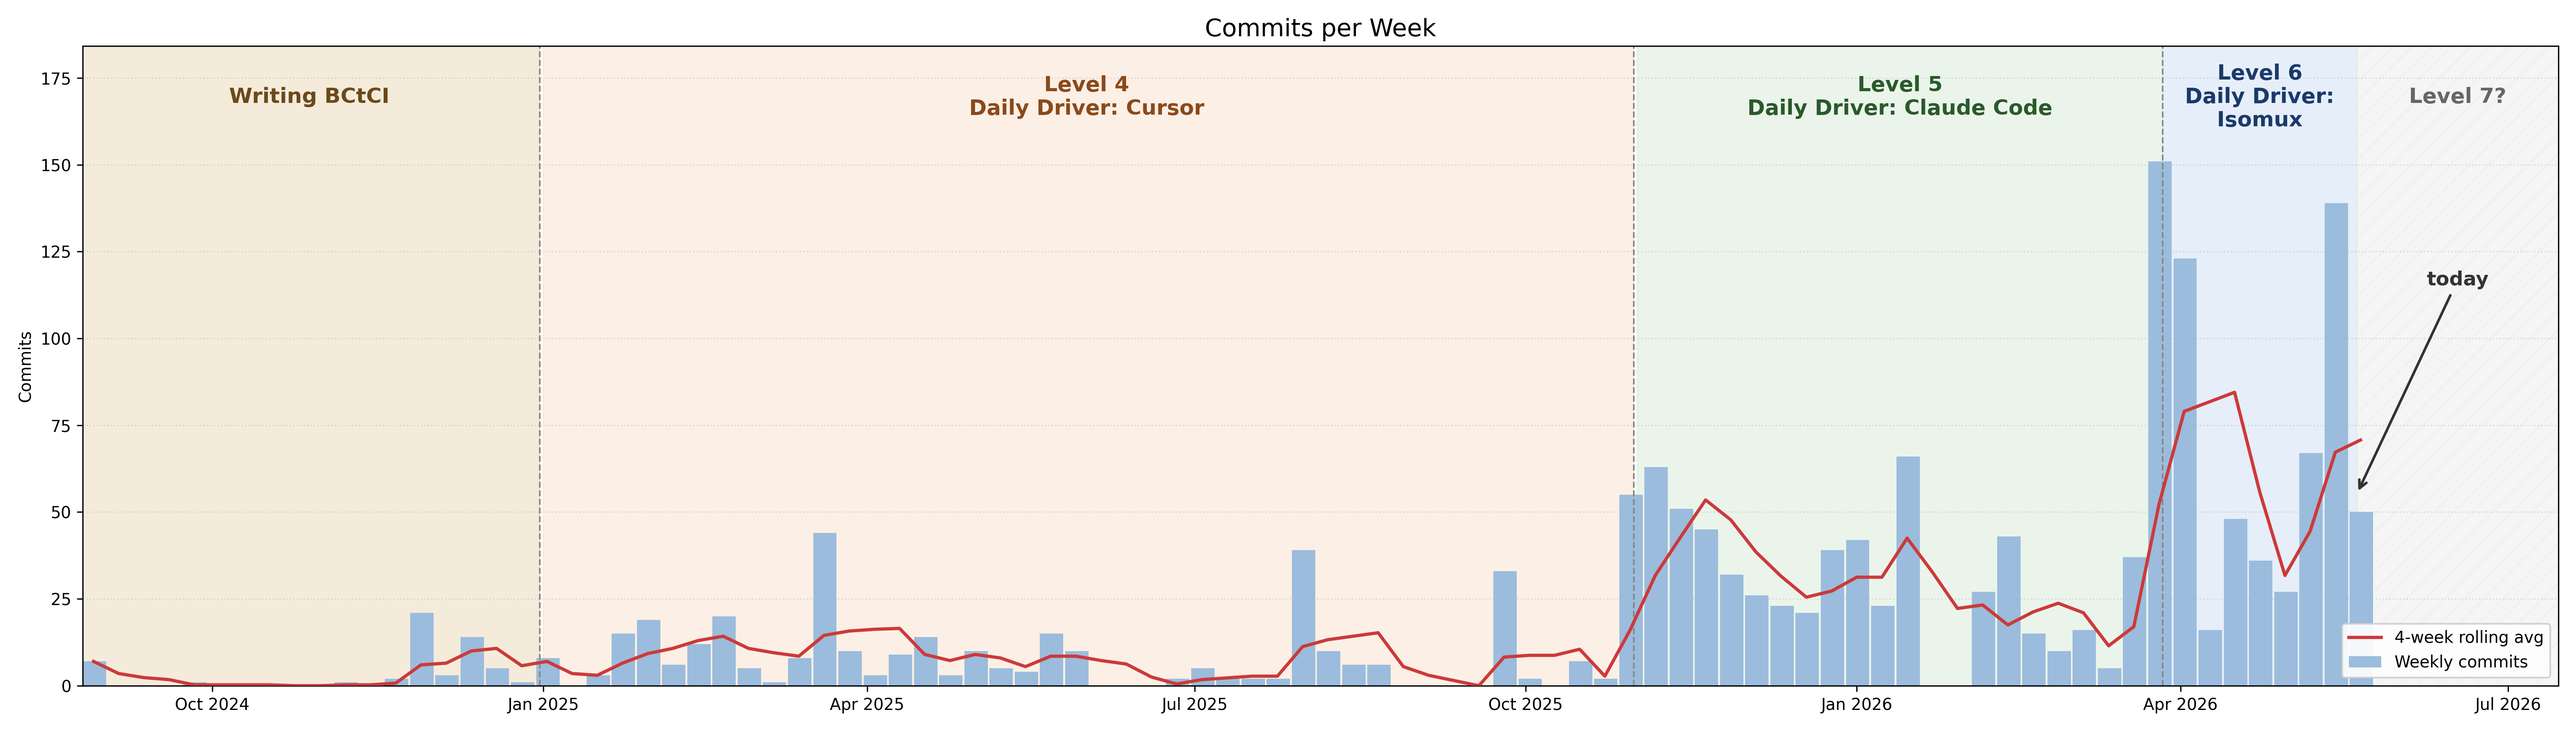
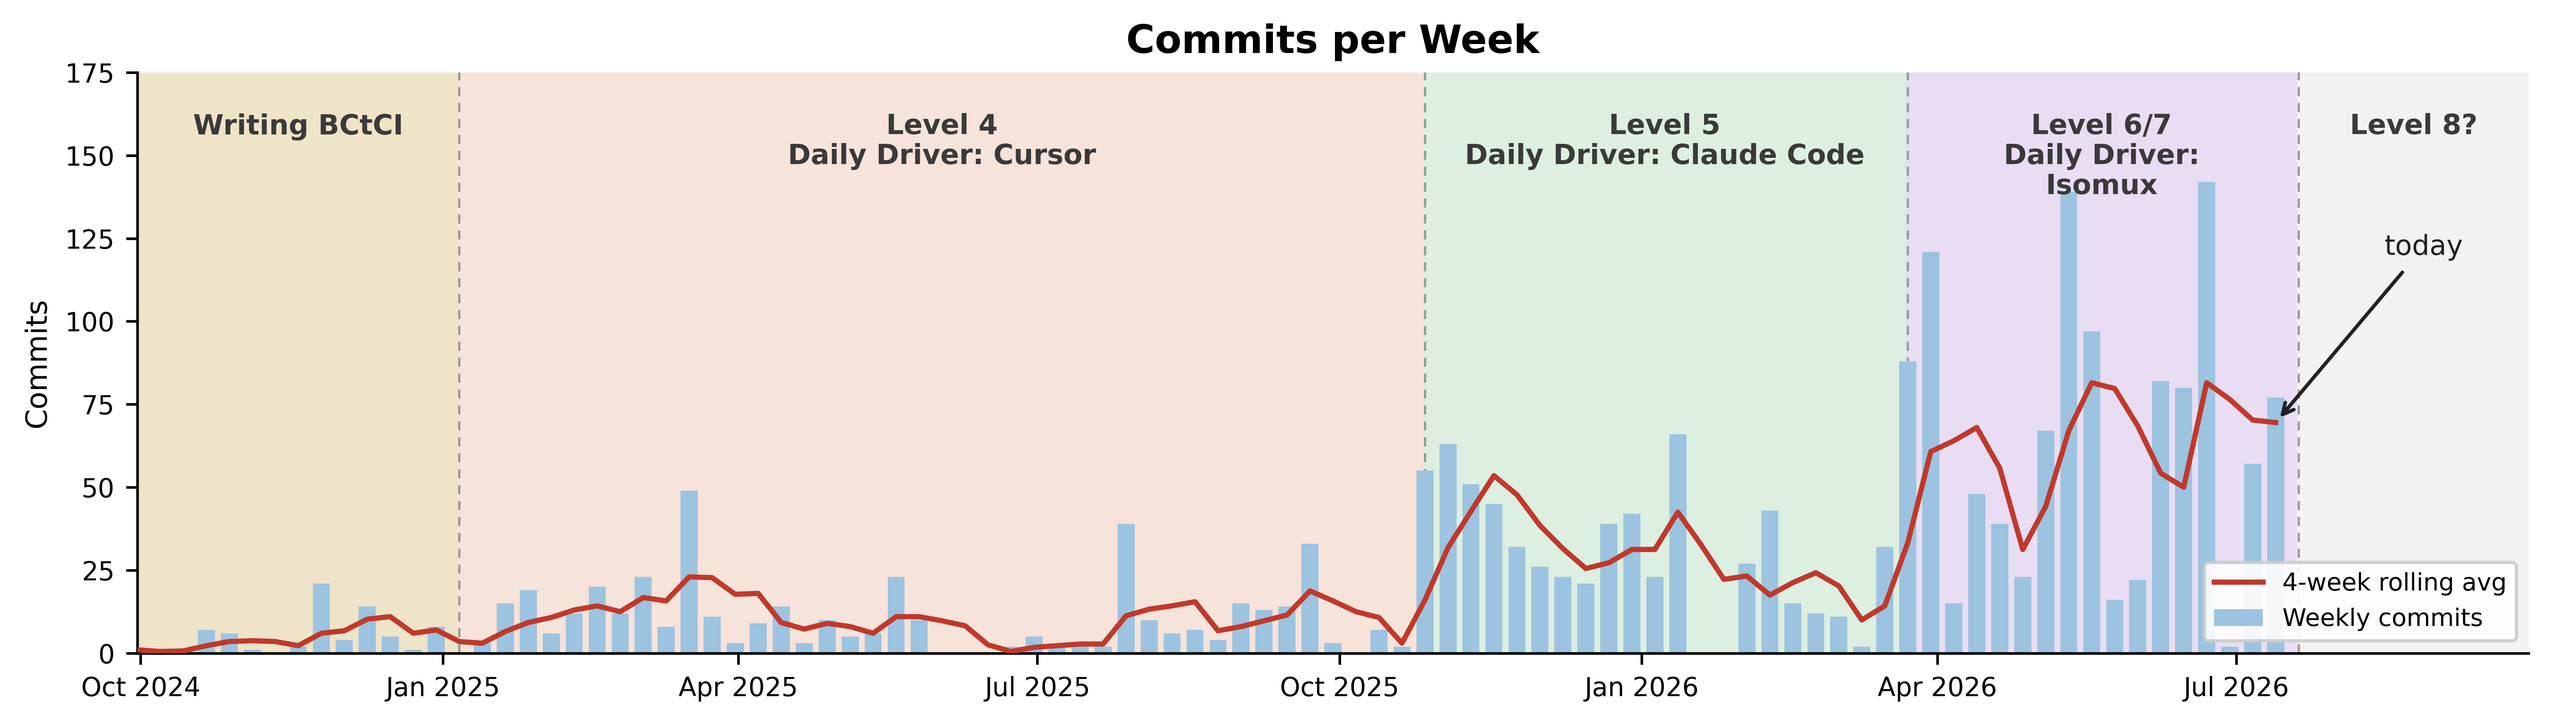
Isomux blog: refresh commits-per-week chart + add generator
Regenerate the top-of-post chart with data through July 2026 and add a
reproducible generator script.

- Counts weekly commits across the author's own non-fork GitHub repos
  (bot authors excluded); shared/co-authored repos come from an optional
  local config outside the repo, so the script hardcodes no email,
  hostname, or repo name.
- Extend the timeline through the Isomux era; relabel eras (Level 6/7,
  Level 8?) and shift era boundaries; recolor the Isomux band.

Changed region(s): [[0.0, 0.0312, 0.9982, 0.9667]]

diff --git a/tools/commits-per-week-chart.py b/tools/commits-per-week-chart.py
@@ -1,0 +1,194 @@
+#!/usr/bin/env python3
+"""
+Regenerate the "Commits per Week" chart at the top of the Isomux blog post
+(public/blog/isomux/commits-per-week.png).
+
+What counts as real dev work: commits that live on GitHub. So this counts
+commits per week across the authenticated user's own (non-fork) GitHub repos,
+excluding bot authors. Each repo is cloned/updated into a local cache.
+
+Shared repos (on GitHub but under another org, with co-authors) can't be
+discovered automatically and shouldn't be hardcoded here, so they're read from
+an OPTIONAL local config file that lives outside this repository:
+
+    ~/.config/commit-chart/extras.json   (override with $COMMIT_CHART_EXTRAS)
+
+    [ { "path": "~/some/local/clone", "authors": ["you@example.com"] }, ... ]
+
+For each extra repo only the listed authors are counted (to drop co-authors).
+If the file is absent the script still runs, just without those repos.
+
+The chart buckets commits into weekly bars, overlays a 4-week rolling average,
+and shades the background by "daily driver" era (Steve Yegge's agent levels).
+
+Usage:  python3 tools/commits-per-week-chart.py
+Deps:   matplotlib, numpy, and the `gh` CLI (authenticated).
+
+By design this file contains no email address, hostname, or repo name.
+"""
+
+import datetime as dt
+import json
+import os
+import subprocess
+from collections import Counter
+
+import numpy as np
+import matplotlib
+matplotlib.use("Agg")
+import matplotlib.pyplot as plt
+import matplotlib.dates as mdates
+
+# --- config -----------------------------------------------------------------
+
+TODAY = dt.date.today()
+AXIS_START = dt.date(2024, 9, 30)          # a Monday, ~Oct 2024
+AXIS_END = dt.date(2026, 9, 28)            # leave room for the "next level?" band
+
+# Skip GitHub repos with no pushes since this date (dead/ancient projects).
+ACTIVE_SINCE = "2024-06-01"
+
+CACHE = os.path.expanduser("~/.cache/commit-chart-repos")
+EXTRAS_FILE = os.environ.get(
+    "COMMIT_CHART_EXTRAS", os.path.expanduser("~/.config/commit-chart/extras.json"))
+
+# (label, start, end, background color). Boundaries are Mondays (bar starts).
+ERAS = [
+    ("Writing BCtCI",                       dt.date(2024, 9, 30),  dt.date(2025, 1, 6),   "#efe3c8"),
+    ("Level 4\nDaily Driver: Cursor",       dt.date(2025, 1, 6),   dt.date(2025, 10, 27), "#f6e3da"),
+    ("Level 5\nDaily Driver: Claude Code",  dt.date(2025, 10, 27), dt.date(2026, 3, 23),  "#dcefe0"),
+    ("Level 6/7\nDaily Driver:\nIsomux",    dt.date(2026, 3, 23),  dt.date(2026, 7, 20),  "#e8ddf3"),
+    ("Level 8?",                            dt.date(2026, 7, 20),  AXIS_END,              "#f2f2f2"),
+]
+
+OUT = os.path.join(os.path.dirname(__file__), "..", "public", "blog", "isomux", "commits-per-week.png")
+
+# --- collect commit dates ---------------------------------------------------
+
+def sh(args):
+    return subprocess.run(args, capture_output=True, text=True, check=False).stdout
+
+def log_dates(repo_dir, authors=None):
+    """Author-dates of non-merge commits, optionally filtered to `authors`.
+    With no author filter, bot commits ([bot] in the author line) are dropped."""
+    fmt = "%aI\t%ae" if authors is None else "%aI"
+    args = ["git", "-C", repo_dir, "log", "--all", "--no-merges", f"--format={fmt}"]
+    for a in (authors or []):
+        args += ["--author", a]
+    dates = []
+    for line in sh(args).splitlines():
+        line = line.strip()
+        if not line:
+            continue
+        if authors is None:
+            iso, _, email = line.partition("\t")
+            if "[bot]" in email:
+                continue
+        else:
+            iso = line
+        dates.append(dt.datetime.fromisoformat(iso).date())
+    return dates
+
+def own_repos():
+    login = sh(["gh", "api", "user", "--jq", ".login"]).strip()
+    raw = sh(["gh", "repo", "list", login, "--source", "--limit", "300",
+              "--json", "name,pushedAt"])
+    names = []
+    for r in json.loads(raw or "[]"):
+        if r.get("pushedAt", "")[:10] >= ACTIVE_SINCE:
+            names.append(r["name"])
+    return login, names
+
+def clone_or_update(url, dest):
+    if os.path.isdir(os.path.join(dest, ".git")):
+        sh(["git", "-C", dest, "fetch", "-q", "--all"])
+    else:
+        subprocess.run(["gh", "repo", "clone", url, dest, "--", "-q"], check=False)
+
+def collect():
+    dates = []
+    os.makedirs(CACHE, exist_ok=True)
+
+    login, names = own_repos()
+    for name in names:
+        dest = os.path.join(CACHE, name)
+        clone_or_update(f"{login}/{name}", dest)
+        dates += log_dates(dest)             # all authors, bots excluded
+
+    if os.path.isfile(EXTRAS_FILE):
+        for spec in json.load(open(EXTRAS_FILE)):
+            path = os.path.expanduser(spec["path"])
+            if os.path.isdir(os.path.join(path, ".git")):
+                dates += log_dates(path, authors=spec.get("authors"))
+    return dates
+
+# --- build weekly series ----------------------------------------------------
+
+def week_start(d):
+    return d - dt.timedelta(days=d.weekday())
+
+def main():
+    counts = Counter(week_start(d) for d in collect())
+
+    weeks = []
+    w = AXIS_START
+    while w <= AXIS_END:
+        weeks.append(w)
+        w += dt.timedelta(days=7)
+
+    # Only plot up to the current (in-progress) week; leave the future empty.
+    cur_week = week_start(TODAY)
+    data_weeks = [w for w in weeks if w <= cur_week]
+    y = np.array([counts.get(w, 0) for w in data_weeks], dtype=float)
+    x = [dt.datetime(w.year, w.month, w.day) for w in data_weeks]
+
+    roll = np.full(len(y), np.nan)
+    for i in range(len(y)):
+        roll[i] = y[max(0, i - 3):i + 1].mean()
+
+    # --- plot ---
+    fig, ax = plt.subplots(figsize=(11, 3.2), dpi=600)
+    ymax = 175
+
+    for label, s, e, color in ERAS:
+        ax.axvspan(dt.datetime(s.year, s.month, s.day),
+                   dt.datetime(e.year, e.month, e.day), color=color, zorder=0)
+        mid = (dt.datetime(s.year, s.month, s.day).toordinal()
+               + dt.datetime(e.year, e.month, e.day).toordinal()) // 2
+        ax.text(dt.datetime.fromordinal(mid), ymax * 0.93, label, ha="center",
+                va="top", fontsize=8.5, color="#3a3a3a", fontweight="bold",
+                linespacing=1.15)
+
+    for _, s, _, _ in ERAS[1:]:
+        ax.axvline(dt.datetime(s.year, s.month, s.day), color="#999",
+                   lw=0.7, ls=(0, (4, 3)), zorder=1)
+
+    ax.bar(x, y, width=5.2, color="#9cc3e0", edgecolor="none", zorder=2,
+           label="Weekly commits")
+    ax.plot(x, roll, color="#c0392b", lw=1.6, zorder=3, label="4-week rolling avg")
+
+    ax.annotate("today", xy=(x[-1], roll[-1]),
+                xytext=(dt.datetime(2026, 8, 15), 120), fontsize=8.5, color="#222",
+                arrowprops=dict(arrowstyle="->", color="#222", lw=1.1))
+
+    ax.set_ylim(0, ymax)
+    ax.set_xlim(dt.datetime(AXIS_START.year, AXIS_START.month, AXIS_START.day),
+                dt.datetime(AXIS_END.year, AXIS_END.month, AXIS_END.day))
+    ax.set_ylabel("Commits", fontsize=9)
+    ax.set_title("Commits per Week", fontsize=12, fontweight="bold")
+    ax.xaxis.set_major_locator(mdates.MonthLocator(interval=3))
+    ax.xaxis.set_major_formatter(mdates.DateFormatter("%b %Y"))
+    ax.tick_params(labelsize=8)
+    ax.set_yticks(range(0, ymax + 1, 25))
+    for spine in ["top", "right"]:
+        ax.spines[spine].set_visible(False)
+    ax.legend(loc="lower right", fontsize=7.5, framealpha=0.9)
+
+    plt.tight_layout()
+    plt.savefig(OUT, dpi=600, bbox_inches="tight")
+    print(f"wrote {os.path.normpath(OUT)}")
+    print(f"commits plotted: {int(y.sum())}  peak week: {int(y.max())}  "
+          f"peak rolling avg: {np.nanmax(roll):.1f}")
+
+if __name__ == "__main__":
+    main()
